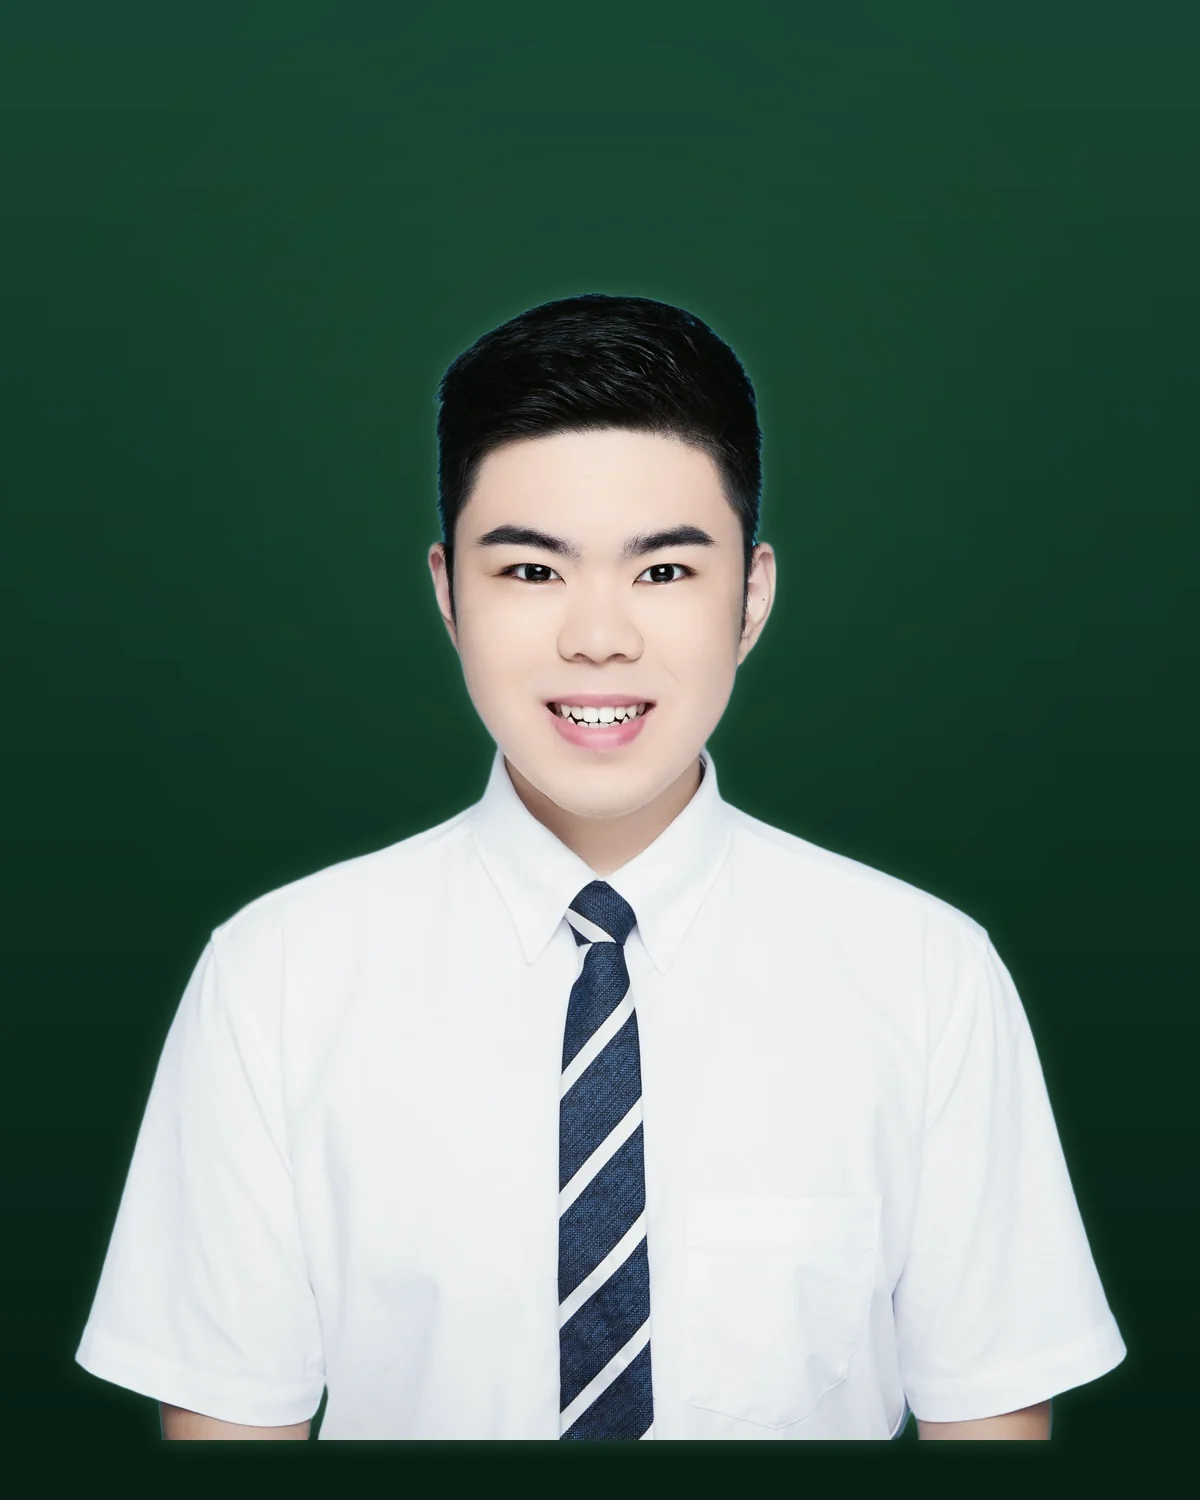
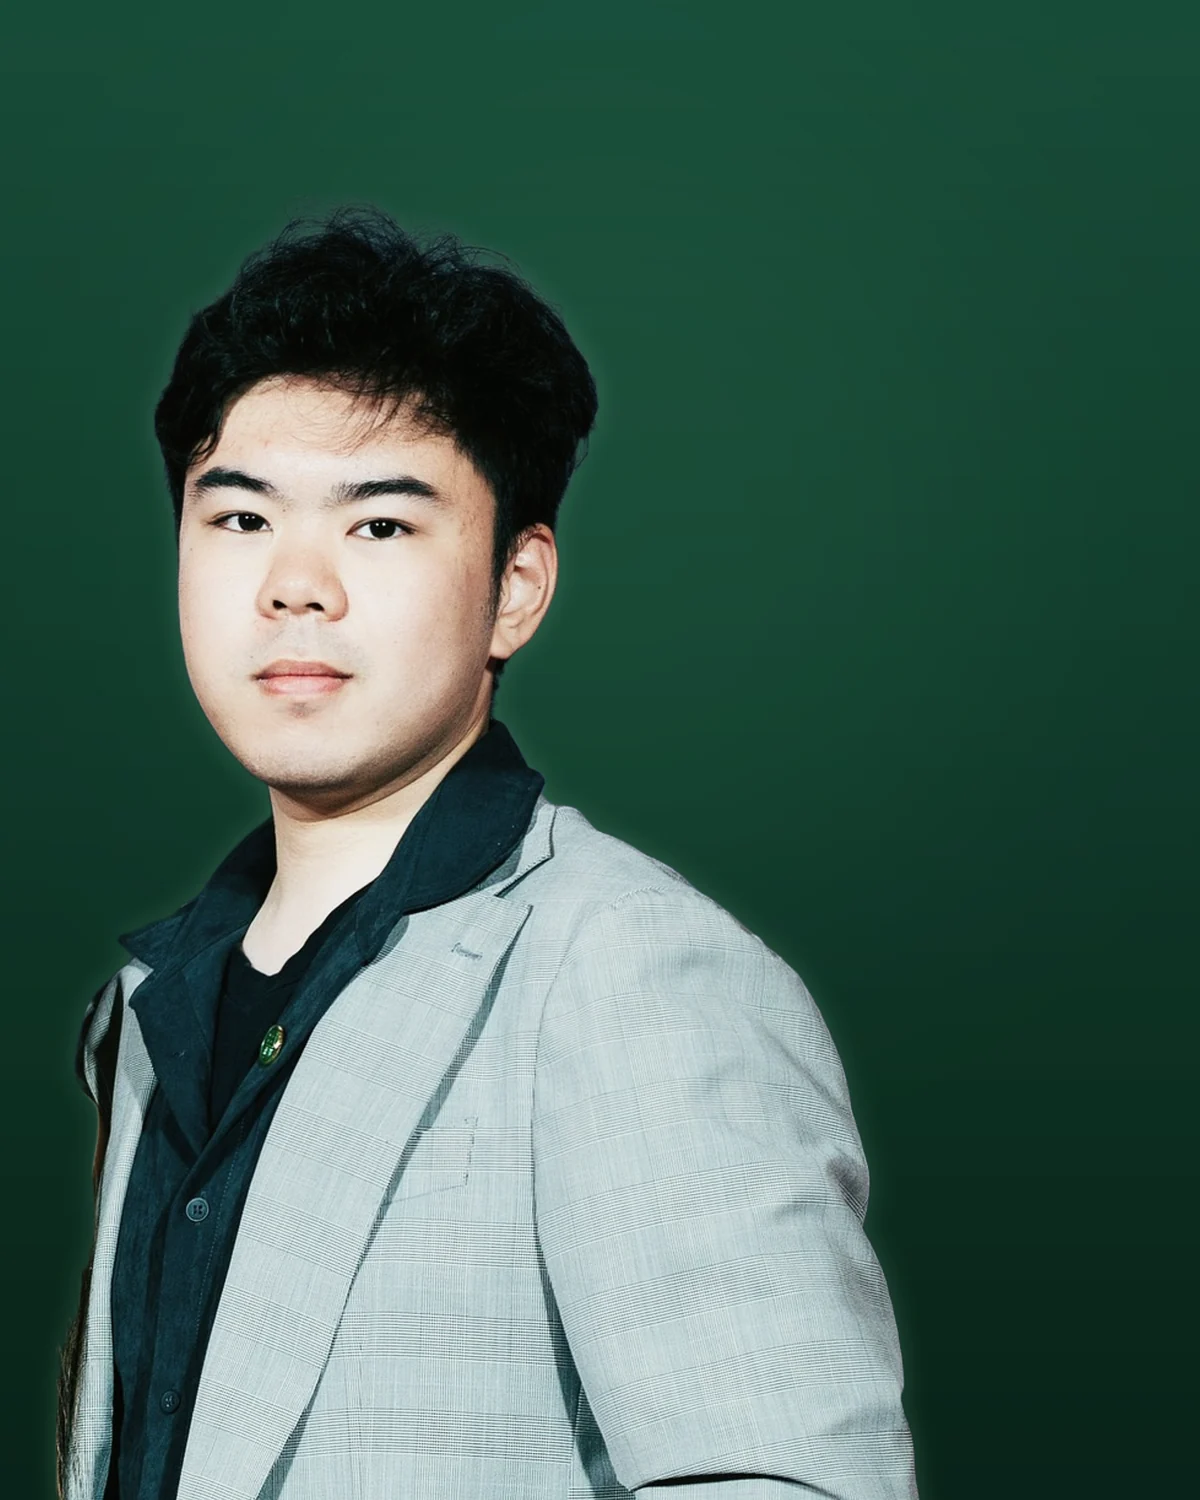
人像换成舞会灰西装照（AI 精修 + 抠图 + 品牌底合成）
替换原因：原证件照是白衬衫 + 校服条纹领带，在「财富规划顾问」页上偏应届生；
换为 2025.4.26 思廷毕业舞会的灰格纹西装照，神态更沉稳。

处理链路
1. 从 6000×4000 原图裁出头肩构图（x 47.0–75.0%，y 37.5–89.5%），4:5
   —— 裁切右移两次以避开画面左侧同行者的头发
2. AI 精修：轻度磨皮、去闪光灯红血丝与油光、提眼神光与立体感
3. AI 抠图去掉背景，并清除左边缘残留的同行者像素
4. 合成到站点同款深绿纵向渐变底（柔光 + 四角压暗 + 降饱和 10%）

来源照片是双人合影，成品只保留本人。

diff --git a/index.html b/index.html
@@ -245,7 +245,7 @@
                 </div>
                 <div class="about-image reveal">
                     <div class="image-frame">
-                        <img src="images/opt/portrait.webp" width="1200" height="1200"
+                        <img src="images/opt/portrait.webp" width="1200" height="1500"
                              alt="陶承启 Oliver Tao 毕业照" class="about-photo" loading="lazy">
                         <div class="image-frame-border"></div>
                         <div class="image-frame-corner top-left"></div>
